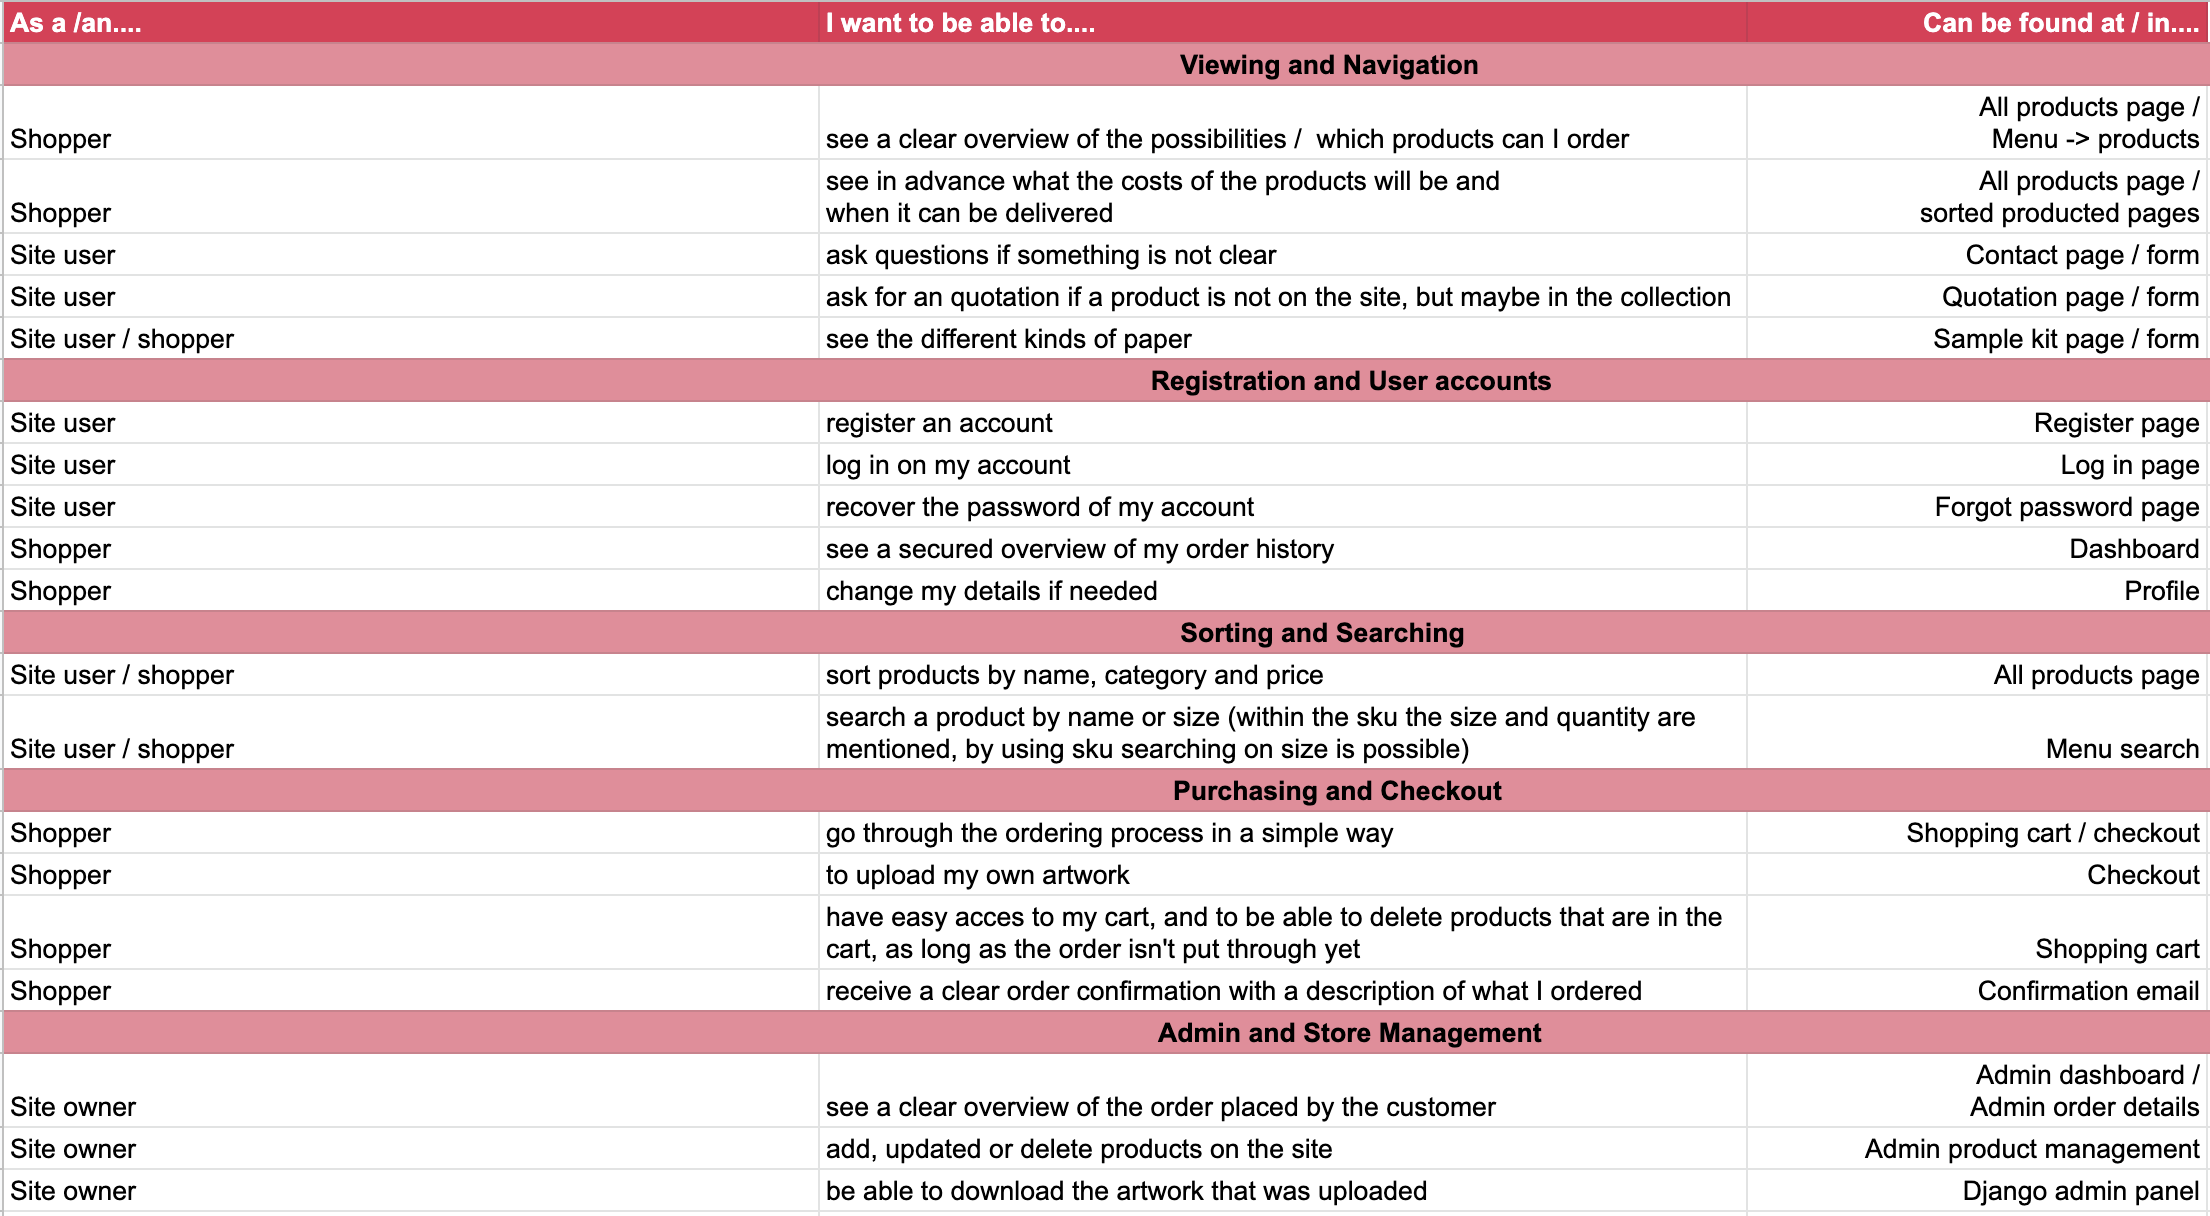
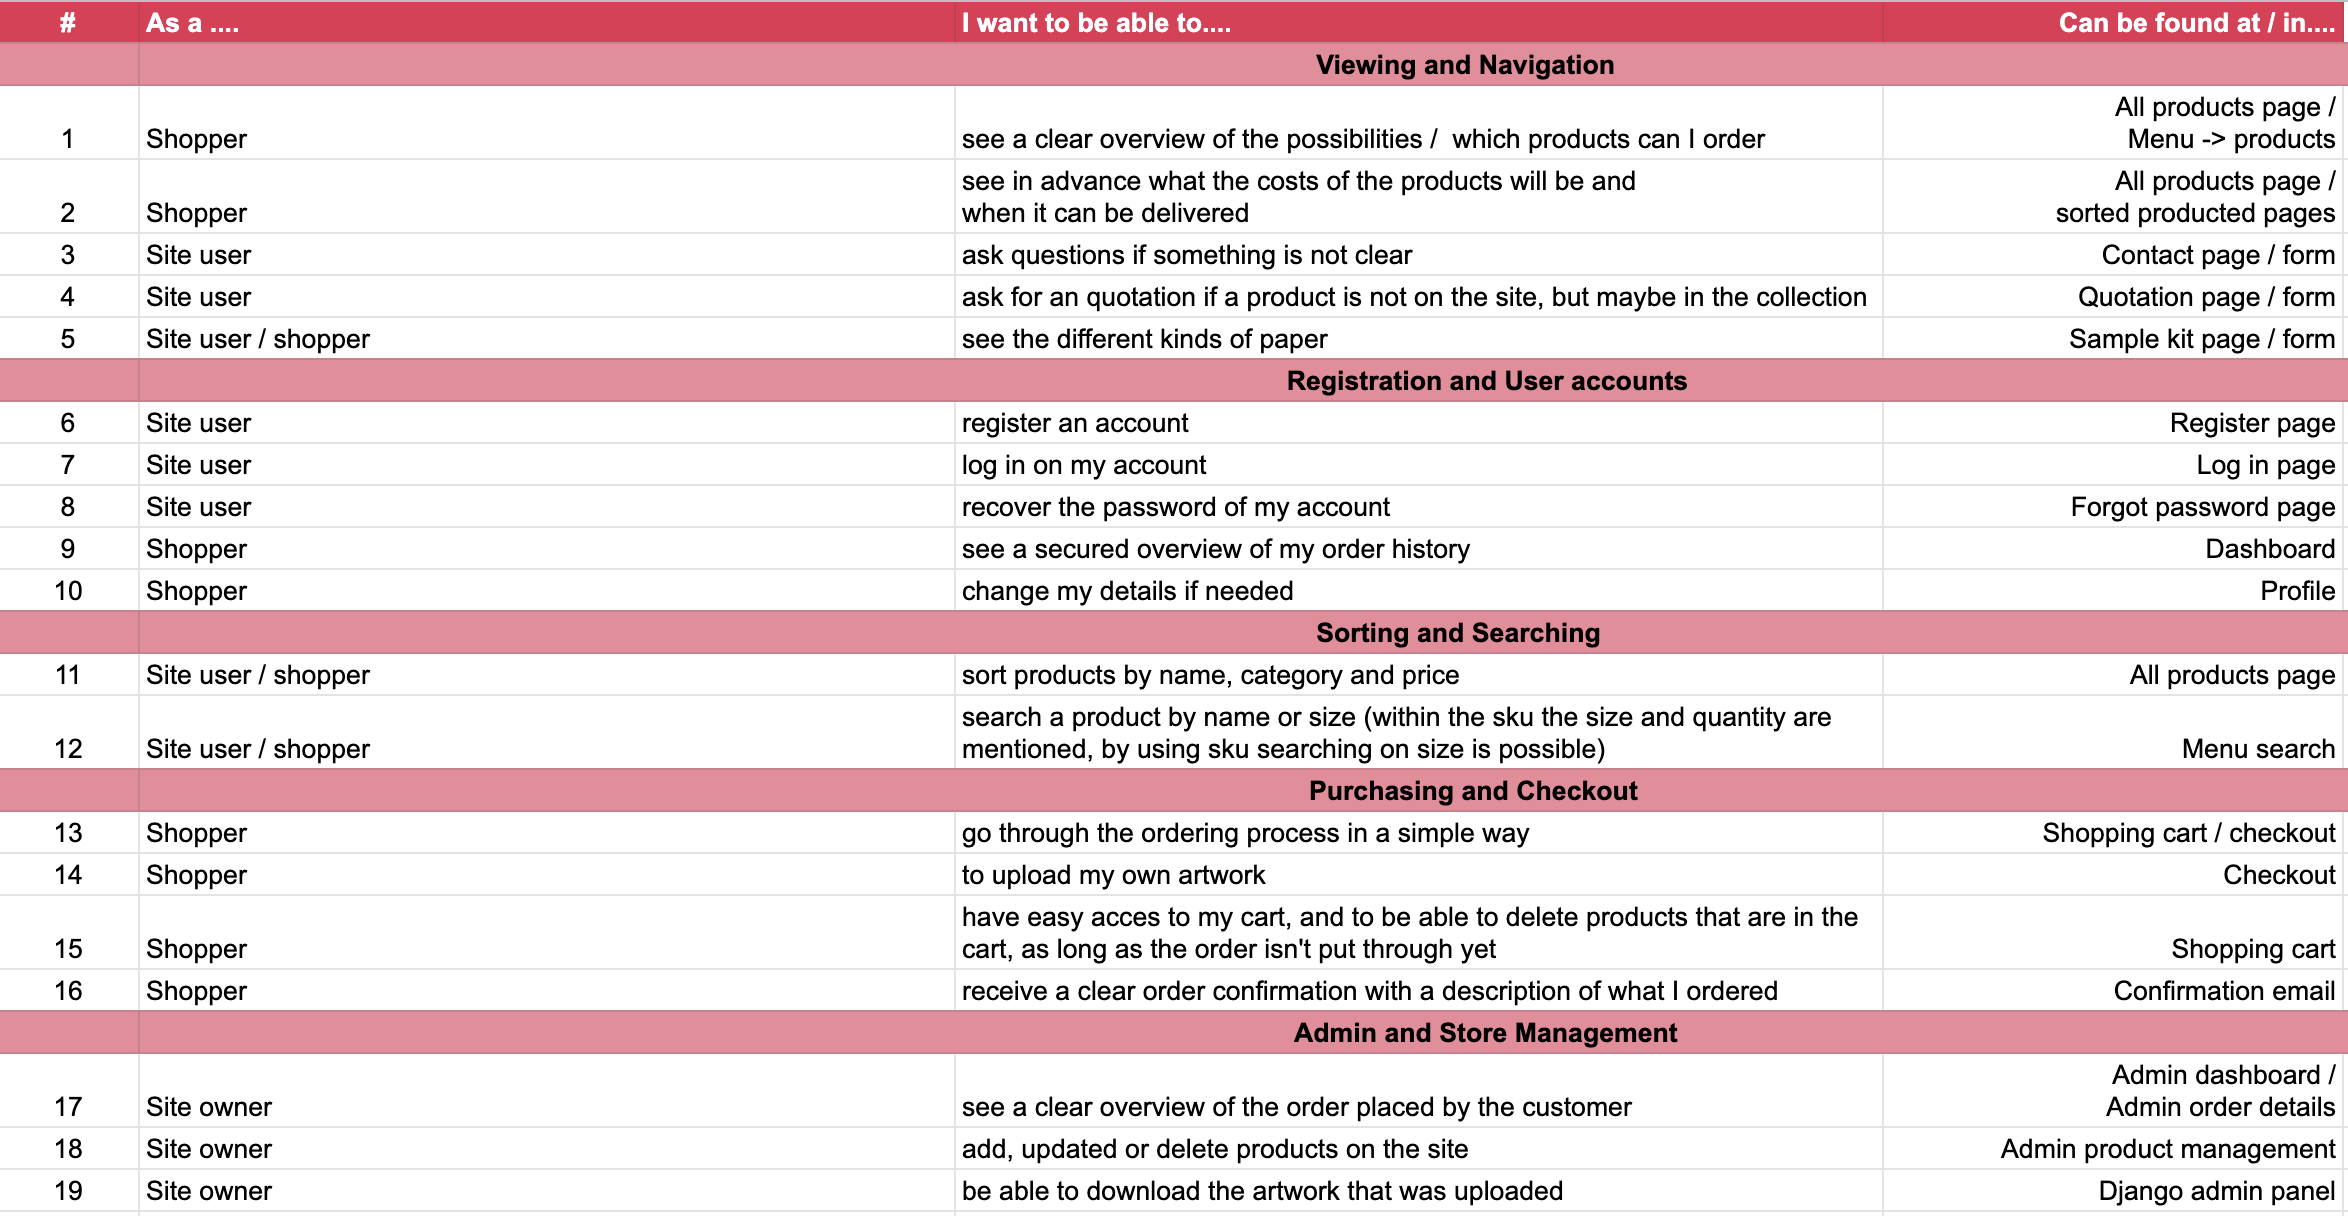
Updated testing user stories

diff --git a/readme/testing/README.md b/readme/testing/README.md
@@ -30,67 +30,103 @@
 
 ### User stories
 
-<!-- The design goal is to make a clear, accessible, structured site so that visitors can easily read the displayed recipes, make an account and add, edit and delete their own recipes. <br>
+The design goal is to make a clear, accessible, structured site so that visitors can easily order their printed matter. Below is an overview of the user stories. <br>
+<img src="../general/user_stories.png" alt="User stories" width="100%" height="100%"><br>
+
 To test the goals screen records of a OnePlus Nord were made.<br>
-NOTE: the grey overlay in some captions on the footer are displayed because the end of the screen was captured, when just looking on the device this is not visible. So, this is just the screen records issue of the phone not a site issue!!!<br><br>
-On small devices the menu can be accessed through the hamburger menu, on large devices the sidenav is always visible. There is a difference between the menu for a user who is not logged in and a user who is logged in.<br>
-<img src="../testing/testing_images/screen_record_navigation_menu.png" alt="Navigation menu logged out user" width="30%" height="30%"> <img src="../testing/testing_images/screen_record_menu_logged_in_user.png" alt="Navigation menu logged in user" width="30%" height="30%">
+NOTE: the grey overlay in some captions on the footer are displayed because the end of the screen was captured, when just looking on the device this is not visible. So, this is just the screen records issue of the phone not a site issue!!!<br>
+On small devices the menu can be accessed through the hamburger menu, on large devices the navbar is visible at the top. There is a difference between the menu for a user who is not logged in and a user who is logged in.<br>
 
-#### The visitor goals are:
-- To be able to see different recipes and search for them using keywords.<br>
-When you navigate to `recipes` you will see a search option and a list with recipe cards.<br> 
-<img src="../testing/testing_images/extended_screen_record_recipes_page_1.png" alt="Recipes page 1" width="25%" height="25%"> <img src="../testing/testing_images/extended_screen_record_recipes_page_2.png" alt="Recipes page 2" width="25%" height="25%"> <br>
+SCREENSHOTS!!!!
 
-In the example underneath, the `search` keyword used is pork and the results for the search will be displayed, in this case two recipes.<br>
-<img src="../testing/testing_images/screen_record_search.png" alt="Search" width="25%" height="25%">
-<img src="../testing/testing_images/extended_screen_record_search_result.png" alt="Search result" width="25%" height="25%"> 
+#### Testing the visitor goals
+As a shopper / site user I want to be able to:<br>
+##### #1 see a clear overview of the possibilities /  which products can I order<br>
+In the menu navigate to `Products`, search for the desirered product in the search bar or on the homepage press the `SHOP NOW` button.<br>
+<img src="../testing/products_1.jpg" alt="How to find products 1" width="25%" height="25%"> <img src="../testing/products_3.jpg" alt="How to find products 3" width="25%" height="25%"> <img src="../testing/products_2.jpg" alt="How to find products 2" width="25%" height="25%"><br>
 
-<div align="right"><a href="#top">🔝</a></div>
-
-- To create an account and log in on that account.<br>
-To register navigate to `Register` in the menu.<br>
-
-<img src="../testing/testing_images/screen_record_register_page_1.png" alt="Register 1" width="25%" height="25%">
-<img src="../testing/testing_images/screen_record_register_page_2.png" alt="Register 2" width="25%" height="25%"><br>
-
-Fill in a username and password and hit `Register`. If this is not yet an existing user, it will successfully register the account.<br>
-
-<img src="../testing/testing_images/screen_record_successfully_registered_1.png" alt="Registered successfully 1" width="25%" height="25%"> <img src="../testing/testing_images/screen_record_successfully_registered_2.png" alt="Registered successfully 2" width="25%" height="25%"><br>
-If the username is already used it will give an error message. When the characters used are not in range of what is required it will also give error messages, however since I used a phone with language set to Dutch as a primary language this will be displayed in Dutch.<br>
-<img src="../testing/testing_images/screen_record_error_username.png" alt="Username unavailable" width="25%" height="25%">
-<img src="../testing/testing_images/screen_record_error_username_and_password_1.png" alt="Register error 1" width="25%" height="25%"> <img src="../testing/testing_images/screen_record_error_username_and_password_2.png" alt="Register error 2" width="25%" height="25%"> <img src="../testing/testing_images/screen_record_error_username_and_password_3.png" alt="Register error 3" width="25%" height="25%"><br>
-
-The same will apply when you navigate to `Log in` and try to log in with an  existing account. It will log you in or give an error message if the username and / or password is not correct:<br>
-
-<img src="../testing/testing_images/screen_record_log_in_1.png" alt="Log in 1" width="25%" height="25%"> <img src="../testing/testing_images/screen_record_log_in_2.png" alt="Log in 2" width="25%" height="25%"> <img src="../testing/testing_images/screen_record_log_in_with_wrong_username_and_or_password.png" alt="Log in wrong" width="25%" height="25%"><br>
-
-Alternatively you can navigate to `Register` and `Log in` through the `Home ` page:<br>
-
-<img src="../testing/testing_images/screen_record_alternative_registration_option_1.png" alt="Alternative registration option 1" width="25%" height="25%"><br>
-
-Or navigate to `Register` through the `About` page:<br>
-
-<img src="../testing/testing_images/screen_record_alternative_registration_option_2.png" alt="Alternative registration option 2" width="25%" height="25%">
+##### #2 see in advance what the costs of the products will be and when it can be delivered<br>
+On the products page each product is displayed in a card, the price ex VAT is diplayed and the delivery time you choose yourself, either 3 or 5 business days.<br>
+<img src="../testing/products_4.jpg" alt="Products explained 1" width="25%" height="25%"> <img src="../testing/products_5.jpg" alt="Products explained 2" width="25%" height="25%"><br>
 
 <div align="right"><a href="#top">🔝</a></div>
 
-- To create, read, update and delete my own recipes.<br>
-To create a recipe, make sure you are logged in, if not, navigate to `Log in` and log in to your account. If you don't have an account, navigate to `Register` and register an account. Once logged in navigate to `Add recipe`, there you can fill out the form.<br>
-<img src="../testing/testing_images/extended_screen_record_add_recipe_1.png" alt="Add recipie 1" width="25%" height="25%"><br>
-Fill out the form and hit  `Add recipe`.<br>
-<img src="../testing/testing_images/screen_record_add_recipe_2.png" alt="Add recipie 2" width="25%" height="25%"> <img src="../testing/testing_images/screen_record_add_recipe_3.png" alt="Add recipie 3" width="25%" height="25%"><br>
-To read the recipe navigate to `Recipes` in the menu, pick a recipe and hit `Go to recipe`, there you'll see the full recipe.<br>
-<img src="../testing/testing_images/extended_screen_record_full_recipe_1.png" alt="Full recipie 1" width="25%" height="25%"> <img src="../testing/testing_images/extended_screen_record_full_recipe_2.png" alt="Full recipie 2" width="25%" height="25%"><br>
-To edit / update the recipe hit  `Edit recipe`<br>
-<img src="../testing/testing_images/screen_record_recipe_options_logged_in_user.png" alt="Recipe options" width="25%" height="25%"><br>
-and change what you want to edit in the recipe, then hit  `Save edited recipe`<br>
-<img src="../testing/testing_images/extended_screen_record_edit_recipe.png" alt="Edit recipe" width="25%" height="25%"> <img src="../testing/testing_images/screen_record_updated_successfully.png" alt="Recipe updated successfully" width="25%" height="25%"><br>
-To delete a recipe hit `Delete recipe`, you will see a message with the question if you are sure you want to delete it.<br>
-<img src="../testing/testing_images/screen_record_delete_recipe.png" alt="Delete recipe" width="25%" height="25%"><br>
-If you are sure hit `YES, DELETE!` and the recipe will be deleted.<br>
-<img src="../testing/testing_images/screen_record_delete_recipe_success.png" alt="Recipe deleted successfully" width="25%" height="25%"><br> -->
+##### #3 ask questions if something is not clear<br>
+Navigate to `Contact / Contact us` in the menu and fill out the contact form.
+
+<img src="../testing/contact_1.jpg" alt="Contact explained 1" width="25%" height="25%"> <img src="../testing/contact_2.jpg" alt="Contact explained 2" width="25%" height="25%"><br>
+<img src="../testing/contact_3.jpg" alt="Contact explained 3" width="25%" height="25%"> <img src="../testing/contact_4.jpg" alt="Contact explained 4" width="25%" height="25%"><br>
+
+##### #4 ask for an quotation if a product is not on the site, but maybe in the collection<br>
+Navigate to `Contact / Quotation request` in the menu and fill out the form.<br>
+
+<img src="../testing/contact_5.jpg" alt="Contact explained 5" width="25%" height="25%"> <img src="../testing/contact_6.jpg" alt="Contact explained 6" width="25%" height="25%"><br>
+<img src="../testing/contact_7.jpg" alt="Contact explained 7" width="25%" height="25%"> <img src="../testing/contact_8.jpg" alt="Contact explained 8" width="25%" height="25%"><br>
 
 <div align="right"><a href="#top">🔝</a></div>
+
+##### #5 see the different kinds of paper<br>
+Navigate to `Contact / Free sample kit` in the menu and fill out the form.<br>
+
+<img src="../testing/contact_9.jpg" alt="Contact explained 9" width="25%" height="25%"> <img src="../testing/contact_10.jpg" alt="Contact explained 10" width="25%" height="25%"><br>
+<img src="../testing/contact_11.jpg" alt="Contact explained 11" width="25%" height="25%"> <img src="../testing/contact_12.jpg" alt="Contact explained 12" width="25%" height="25%"><br>
+
+##### #6 register an account<br>
+Navigate to `Register` in the menu and fill out the form and follow the steps.
+
+<img src="../testing/register_1.jpg" alt="Registration explained 1" width="25%" height="25%"> <img src="../testing/register_2.jpg" alt="Registration explained 2" width="25%" height="25%"> <img src="../testing/register_3.jpg" alt="Registration explained 3" width="25%" height="25%"><br>
+<img src="../testing/register_4.jpg" alt="Registration explained 4" width="25%" height="25%"> <img src="../testing/register_5.jpg" alt="Registration explained 5" width="25%" height="25%"> <img src="../testing/register_6.jpg" alt="Registration explained 6" width="25%" height="25%"><br>
+
+<div align="right"><a href="#top">🔝</a></div>
+
+##### #7 log in on my account<br>
+Navigate to `Log in` in the menu<br>
+
+<img src="../testing/login_1.jpg" alt="Log in explained 1" width="25%" height="25%"> <img src="../testing/login_2.jpg" alt="Log in explained 2" width="25%" height="25%"> <img src="../testing/login_3.jpg" alt="Log in explained 3" width="25%" height="25%"><br>
+
+##### #8 recover the password of my account<br>
+Navigate to `Log in` in the menu and press `Forgot your password?` fill out the form and follow the steps.<br>
+
+<img src="../testing/reset_1.jpg" alt="Reset password explained 1" width="25%" height="25%"> <img src="../testing/reset_2.jpg" alt="Reset password explained 2" width="25%" height="25%"> <img src="../testing/reset_3.jpg" alt="Reset password explained 3" width="25%" height="25%"><br>
+<img src="../testing/reset_4.jpg" alt="Reset password explained 4" width="25%" height="25%"> <img src="../testing/reset_5.jpg" alt="Reset password explained 5" width="25%" height="25%"><br>
+
+<div align="right"><a href="#top">🔝</a></div>
+
+##### #9 see a secured overview of my order history<br>
+Navigate to `Account / Dashboard` in the menu.<br>
+
+<img src="../testing/dashboard_1.jpg" alt="Order history 1" width="25%" height="25%"> <img src="../testing/dashboard_2.jpg" alt="Order history 2" width="25%" height="25%"> <img src="../testing/dashboard_3.jpg" alt="Order history 3" width="25%" height="25%"><br>
+
+##### #10 change my details if needed<br>
+Navigate to `Account / Profile` in the menu.<br>
+
+<img src="../testing/profile_1.jpg" alt="Profile 1" width="25%" height="25%"> <img src="../testing/profile_1.jpg" alt="Profile 1" width="25%" height="25%"> <img src="../testing/profile_1.jpg" alt="Profile 1" width="25%" height="25%"><br>
+
+<div align="right"><a href="#top">🔝</a></div>
+
+##### #11 sort products by name, category and price<br>
+On the homepage press the `SHOP NOW` button, in the menu navigate to `Products` or search for the desirered product in the search bar, and click the sort bar.<br>
+
+SCREENSHOTS 25%!!!! <br>
+
+##### #12 search a product by name or size (within the sku the size and quantity are mentioned, by using sku searching on size is possible)<br>
+In the menu navigate search for the desirered product in the search bar, you can search for size, papertype or category.
+
+SCREENSHOTS 25%!!!! <br>
+
+<div align="right"><a href="#top">🔝</a></div>
+
+##### #13 go through the ordering process in a simple way<br>
+##### #14 to upload my own artwork<br>
+##### #15 have easy acces to my cart, and to be able to delete products that are in the cart, as long as the order isn't put through yet<br>
+Place the products that you want to order in your cart. Als long as you didn't pay you are still able to adjust the cart. Go to `Secure checkout` when you are ready, fill out the checkout form where you can also upload your artwork.
+
+SCREENSHOTS 25%!!!! <br>
+
+<div align="right"><a href="#top">🔝</a></div>
+
+##### #16 receive a clear order confirmation with a description of what I ordered<br>
+After completing the checkout form and pressing `Complete order` you will get a confirmation by email.
 
 #### The site owners goals are:
 
